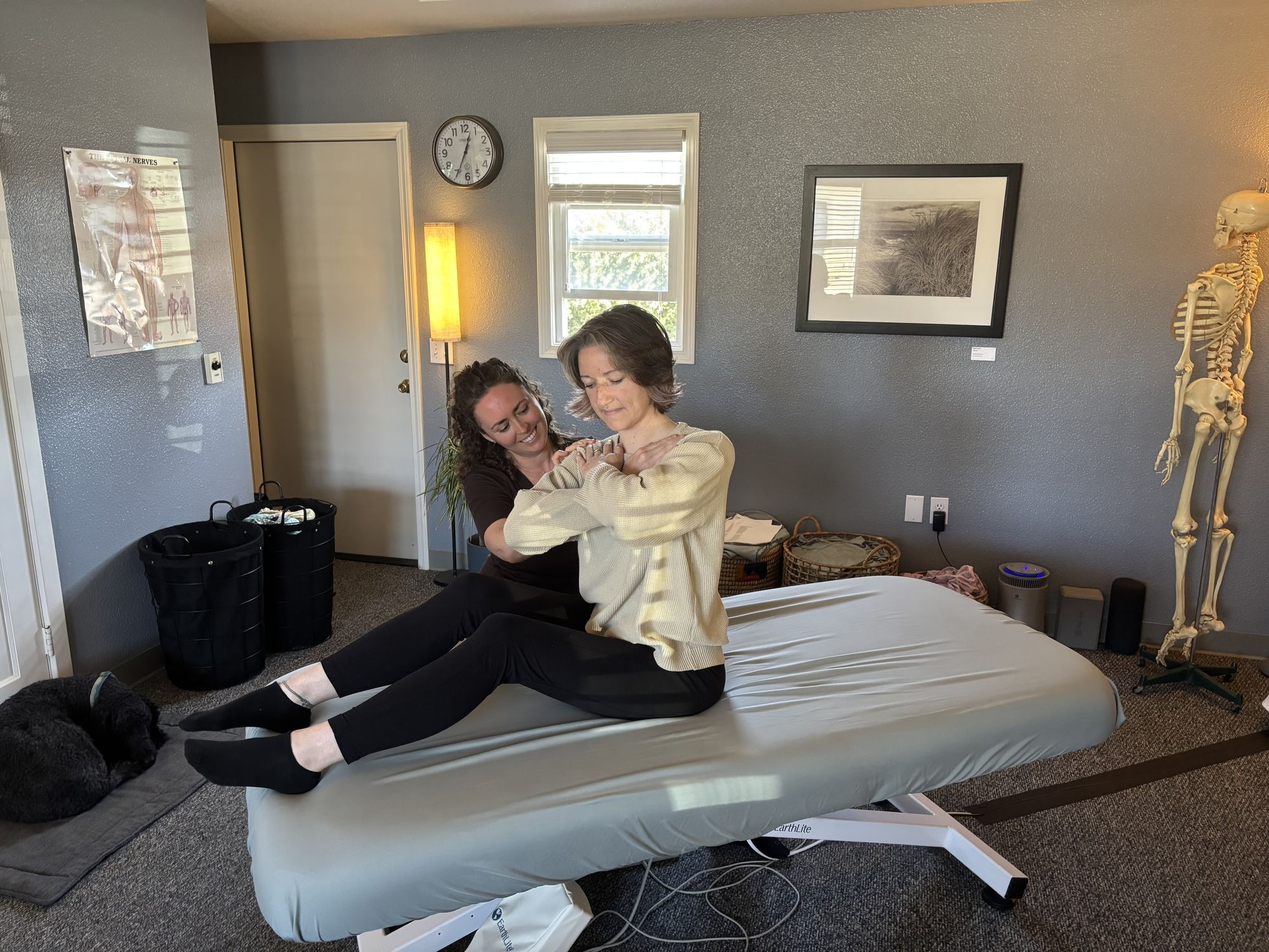
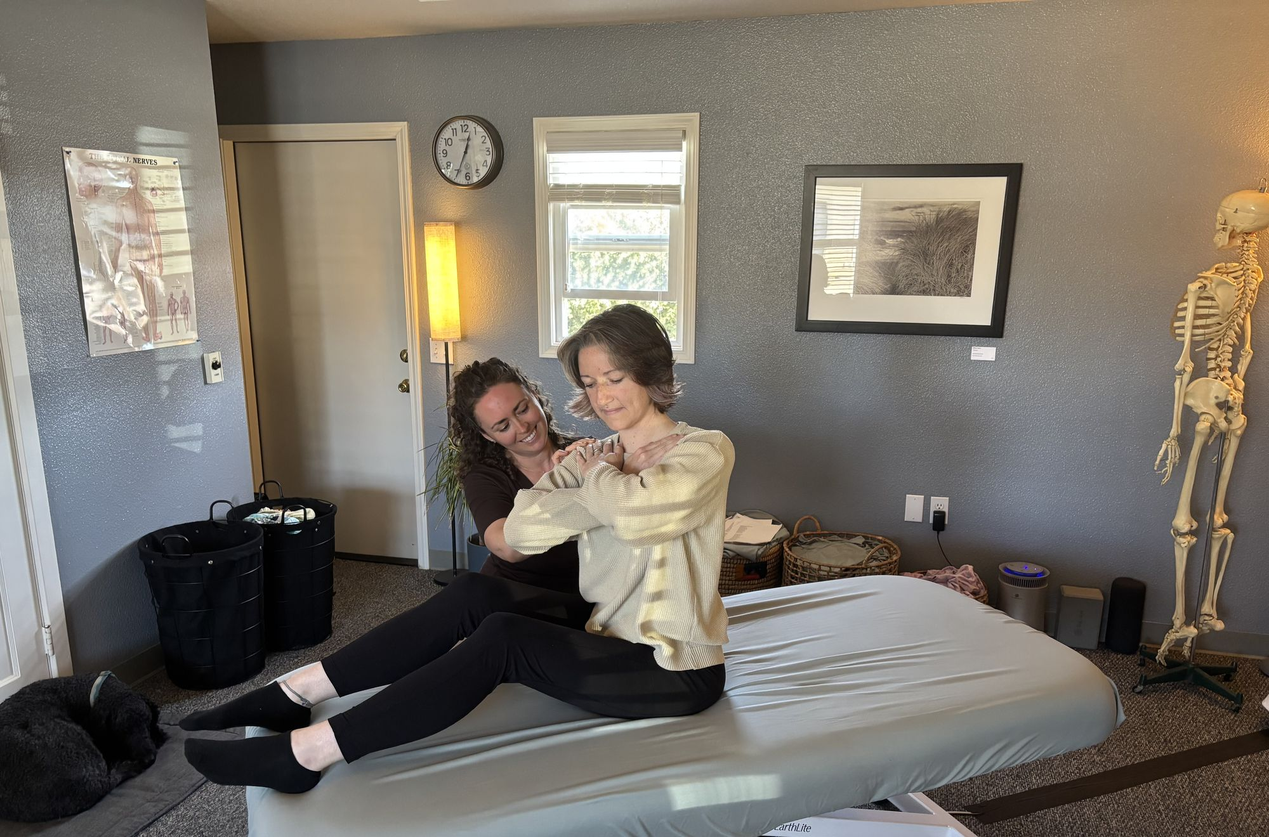
Session band photo: crop out the cables, keep the dog and the table

diff --git a/index.html b/index.html
@@ -150,7 +150,7 @@
   }
   /* real photos (Sep 28 shoot) */
   .hero-band.has-photo { background: linear-gradient(rgba(40,32,26,0.50), rgba(40,32,26,0.62)), url('images/hero.jpg') center 38% / cover no-repeat; }
-  .band.photo-process { background: linear-gradient(rgba(40,32,26,0.55), rgba(40,32,26,0.62)), url('images/process.jpg') center 30% / cover no-repeat; }
+  .band.photo-process { background: linear-gradient(rgba(40,32,26,0.55), rgba(40,32,26,0.62)), url('images/process.jpg') center bottom / cover no-repeat; }
   .band.photo-contact { background: linear-gradient(rgba(40,32,26,0.50), rgba(40,32,26,0.60)), url('images/contact.jpg') center 45% / cover no-repeat; }
   .rate a { color: var(--olive-deep); font-weight: 600; }
   .photo-block img { position: absolute; inset: 0; width: 100%; height: 100%; object-fit: cover; }
